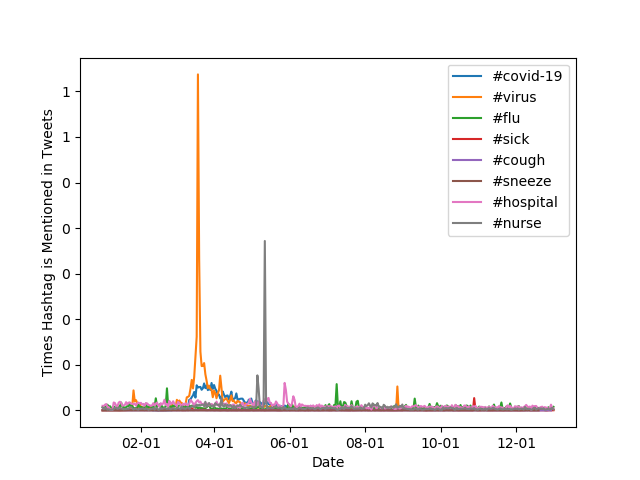
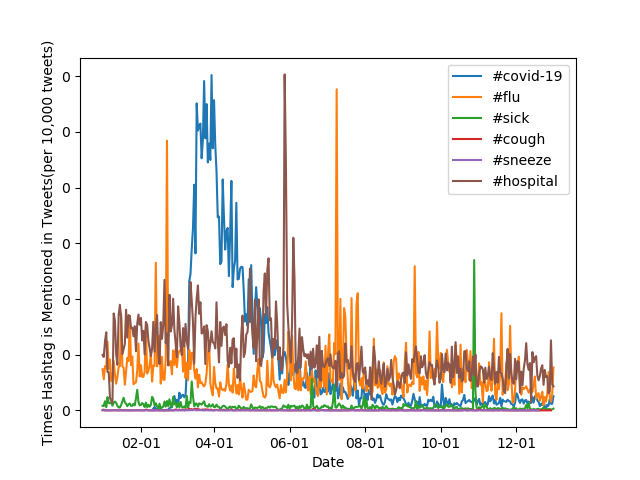
new graph3

Changed region(s): [[0.1562, 0.1562, 0.875, 0.875], [0.0625, 0.0938, 0.125, 0.9375], [0.6875, 0.1875, 0.875, 0.5]]

diff --git a/src/alternative_reduce.py b/src/alternative_reduce.py
@@ -74,7 +74,7 @@ y_format = mtick.FuncFormatter(lambda x, pos: '{:,.0f}'.format(x/100000))
 ax.xaxis.set_major_locator(mdates.MonthLocator(bymonthday=1, bymonth=range(0, 13, 2)))
 ax.yaxis.set_major_formatter(y_format)
 ax.set_xlabel('Date')
-ax.set_ylabel('Times Hashtag is Mentioned in Tweets')
+ax.set_ylabel('Times Hashtag is Mentioned in Tweets(per 10,000 tweets)')
 ax.legend()
 
 # save plot
